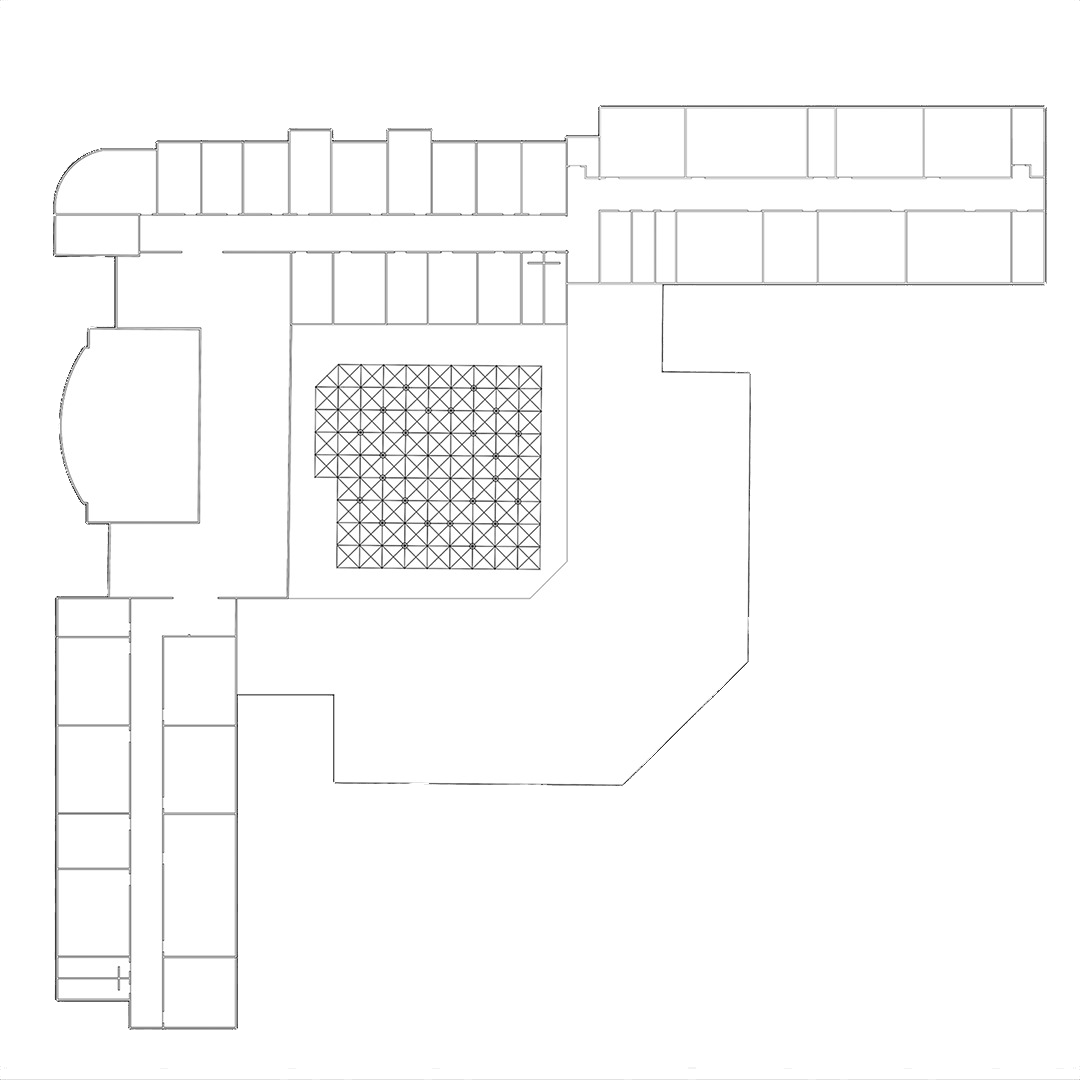
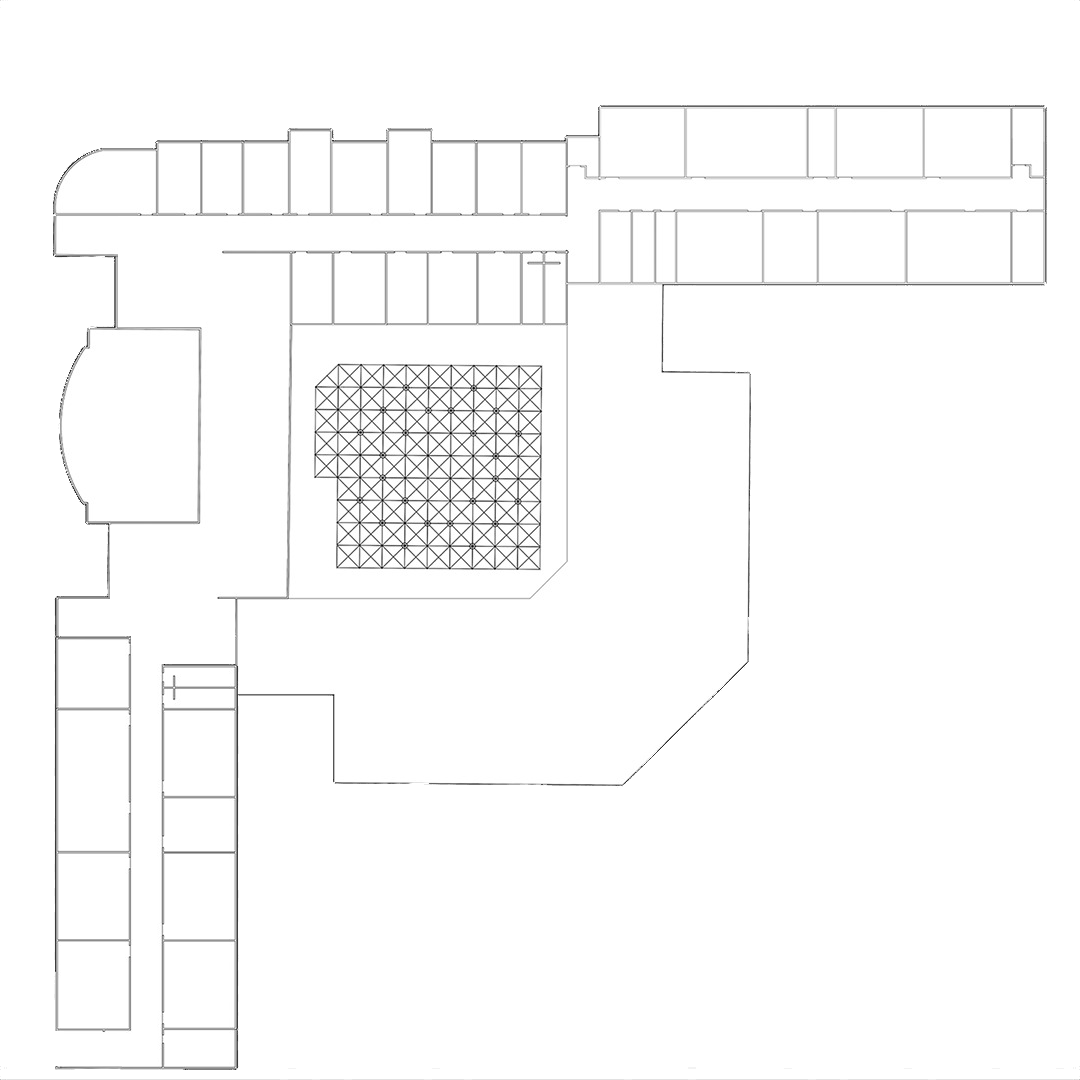
update map and routes

diff --git a/lib/data/global.dart b/lib/data/global.dart
@@ -204,8 +204,8 @@ abstract class Global {
       'icon': Icons.menu_book_rounded,
       'status': true,
       'position': [-0.36, -0.299],
-      'door_position': [-0.329, -0.271],
-      'corridor_position': [-0.329, -0.256],
+      'door_position': [-0.326, -0.271],
+      'corridor_position': [-0.326, -0.256],
     },
 
     //Corridor 2 Bottom
@@ -292,7 +292,7 @@ abstract class Global {
       'corridor_position': [-0.329, 0.15],
     },
     {
-      'location': '331',
+      'location': 'Room 331',
       'name': '331',
       'icon': Icons.menu_book_rounded,
       'status': true,
@@ -307,7 +307,7 @@ abstract class Global {
       'status': true,
       'position': [-0.374, 0.375],
       'door_position': [-0.341, 0.344],
-      'corridor_position': [-0.329, 0.44],
+      'corridor_position': [-0.329, 0.344],
     },
 
     //Corridor 3 Right
@@ -405,10 +405,10 @@ abstract class Global {
       'position': [0.06, -0.288], // 311
     },
     {
-      'position': [0.0362, -0.288], // Tile 2 Turn 1
+      'position': [0.0362, -0.288], // Turn 1
     },
     {
-      'position': [0.0362, -0.256], // Tile 2 Turn 2
+      'position': [0.0362, -0.256], // Turn 2
     },
     {
       'position': [0.01, -0.256], // WCF
@@ -459,7 +459,49 @@ abstract class Global {
       'position': [-0.292, -0.256], // 302
     },
     {
-      'position': [-0.329, -0.256], // 301
+      'position': [-0.326, -0.256], // 301
+    },
+    {
+      'position': [-0.326, -0.207], // Turn 1
+    },
+    {
+      'position': [-0.25, -0.207], // Turn 2
+    },
+    {
+      'position': [-0.25, 0.015], // Turn 3
+    },
+    {
+      'position': [-0.329, 0.015], // Turn 4
+    },
+    {
+      'position': [-0.329, 0.091], // 333
+    },
+    {
+      'position': [-0.329, 0.114], // WCF
+    },
+    {
+      'position': [-0.329, 0.133], // WCM
+    },
+    {
+      'position': [-0.329, 0.15], // 332
+    },
+    {
+      'position': [-0.329, 0.205], // 327 TA
+    },
+    {
+      'position': [-0.329, 0.252], // 327
+    },
+    {
+      'position': [-0.329, 0.27], // 331
+    },
+    {
+      'position': [-0.329, 0.325], // 328
+    },
+    {
+      'position': [-0.329, 0.344], // 330
+    },
+    {
+      'position': [-0.329, 0.399], // 329
     }
   ];
 

diff --git a/lib/widgets/map/gridview_widget.dart b/lib/widgets/map/gridview_widget.dart
@@ -20,10 +20,11 @@ class _GridViewWidgetState extends State<GridViewWidget> {
       children: <Widget>[
         Container(
           child: Image.asset(
-            'assets/miu_3.png',
+            'assets/miu.png',
           ),
         ),
         Stack(
+          alignment: Alignment.center,
           children: List.generate(
             model.rooms.length,
             (idx) {
